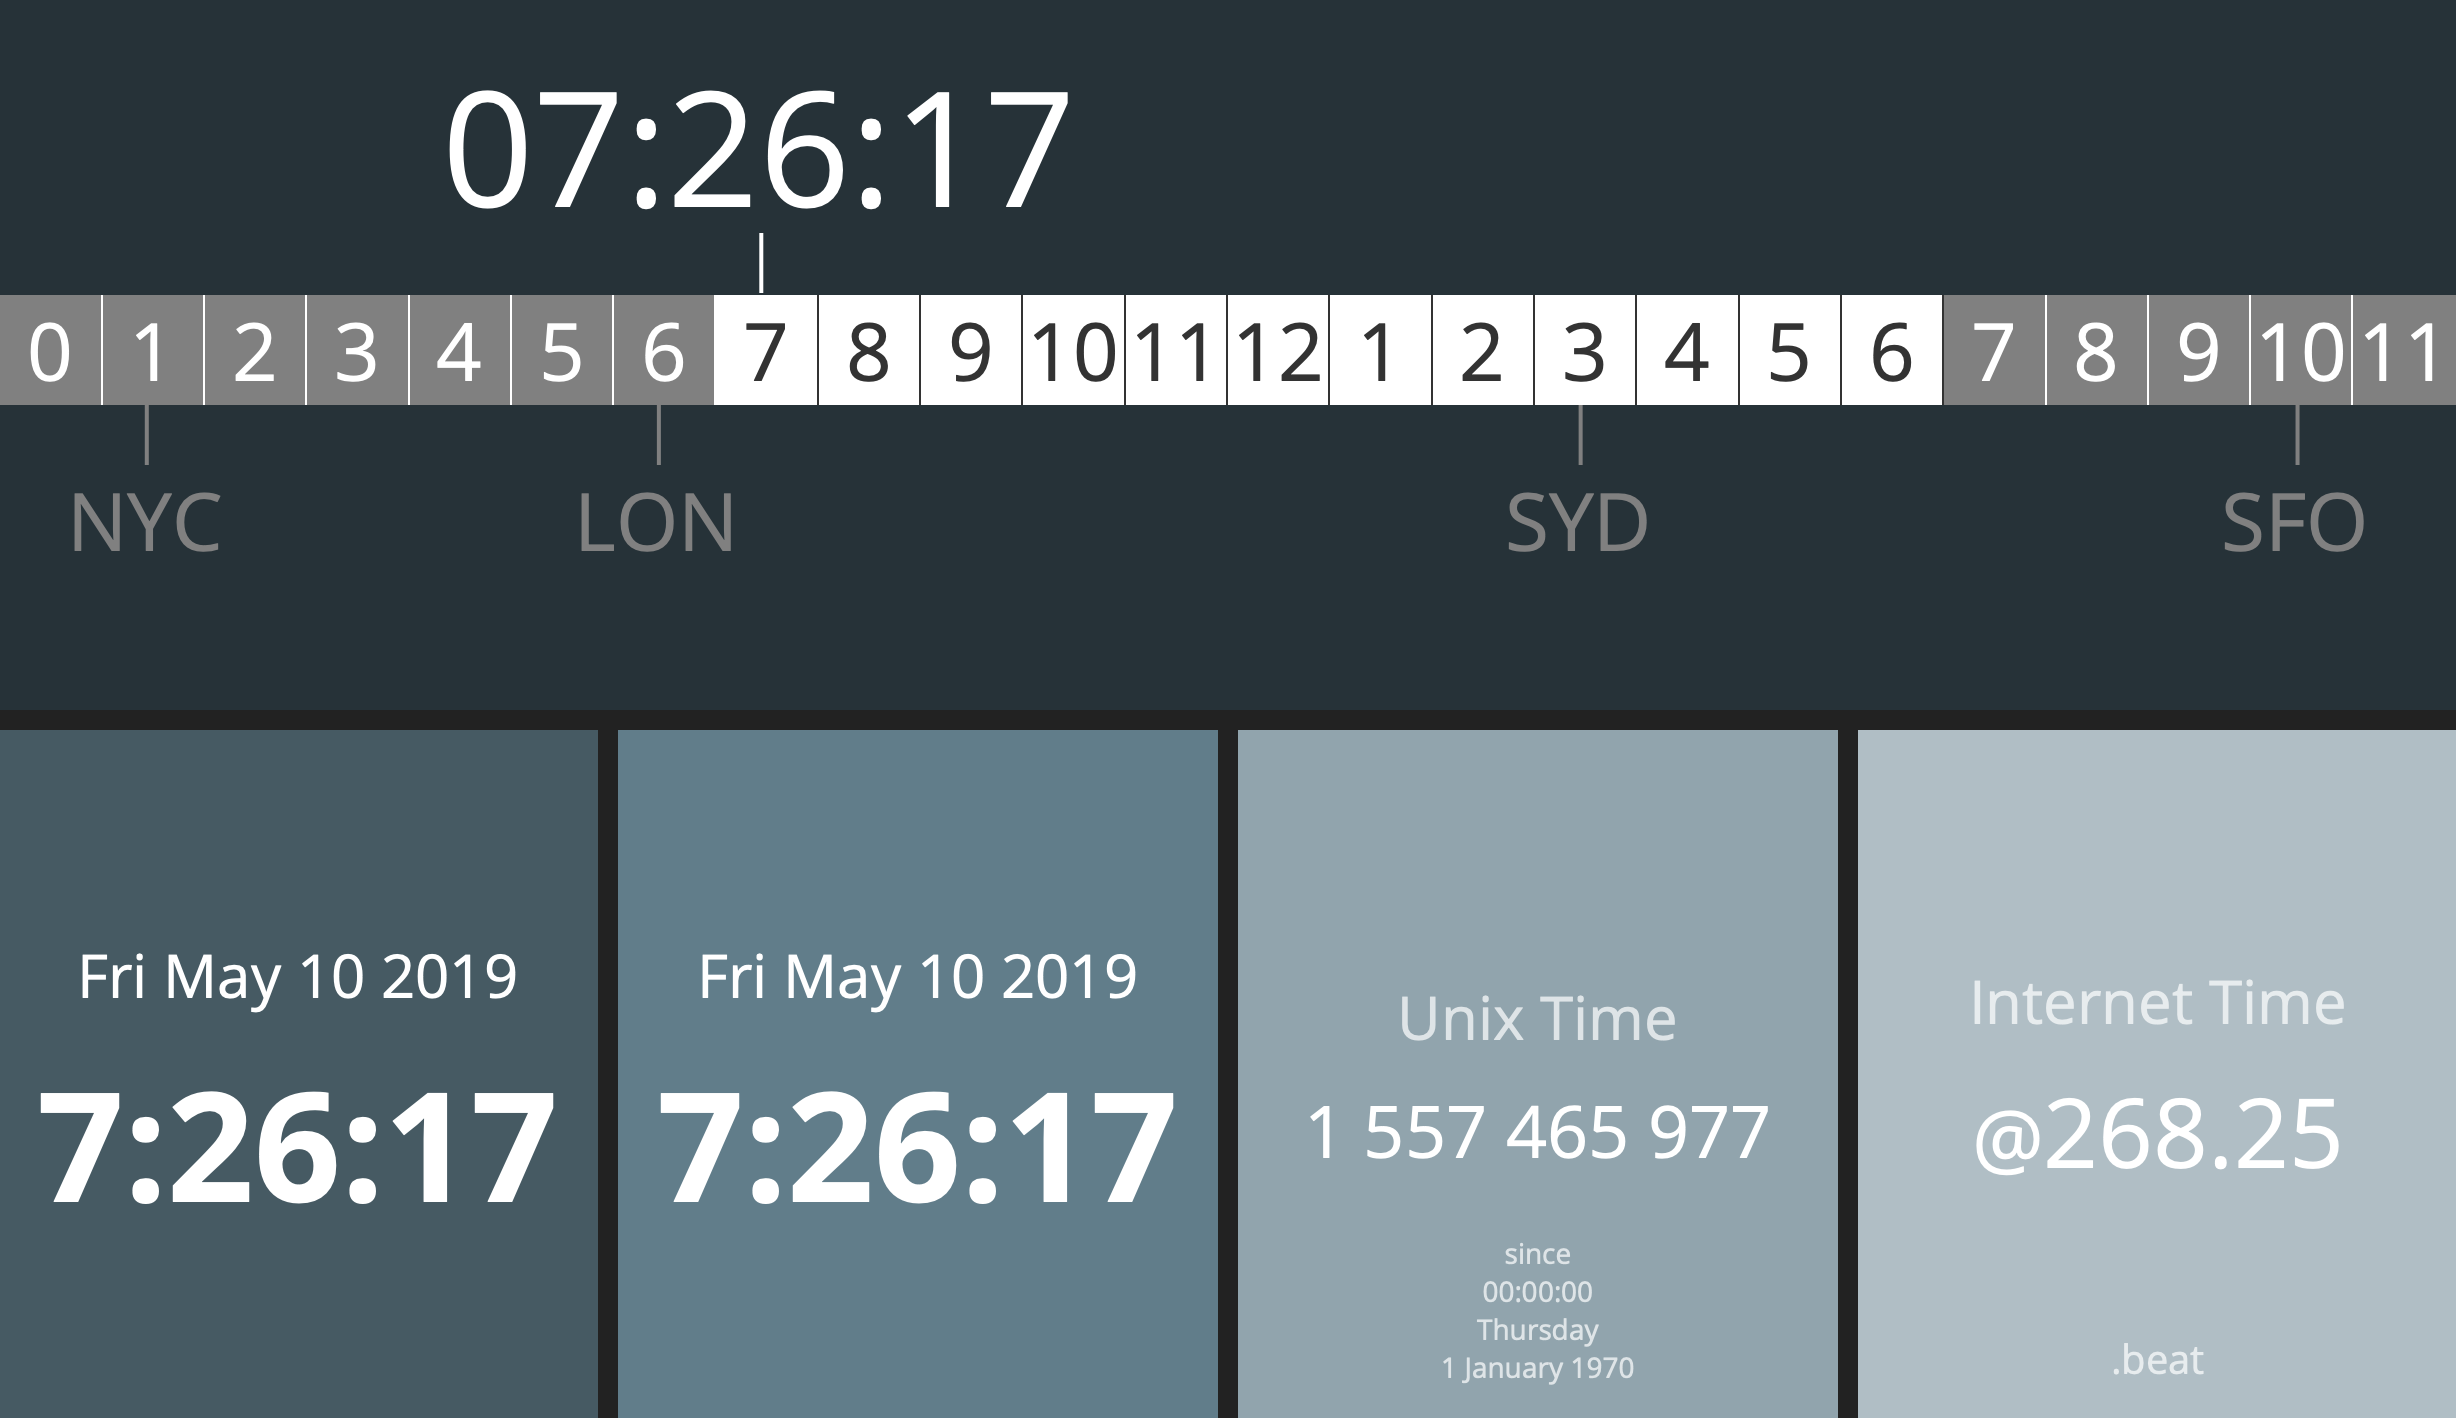
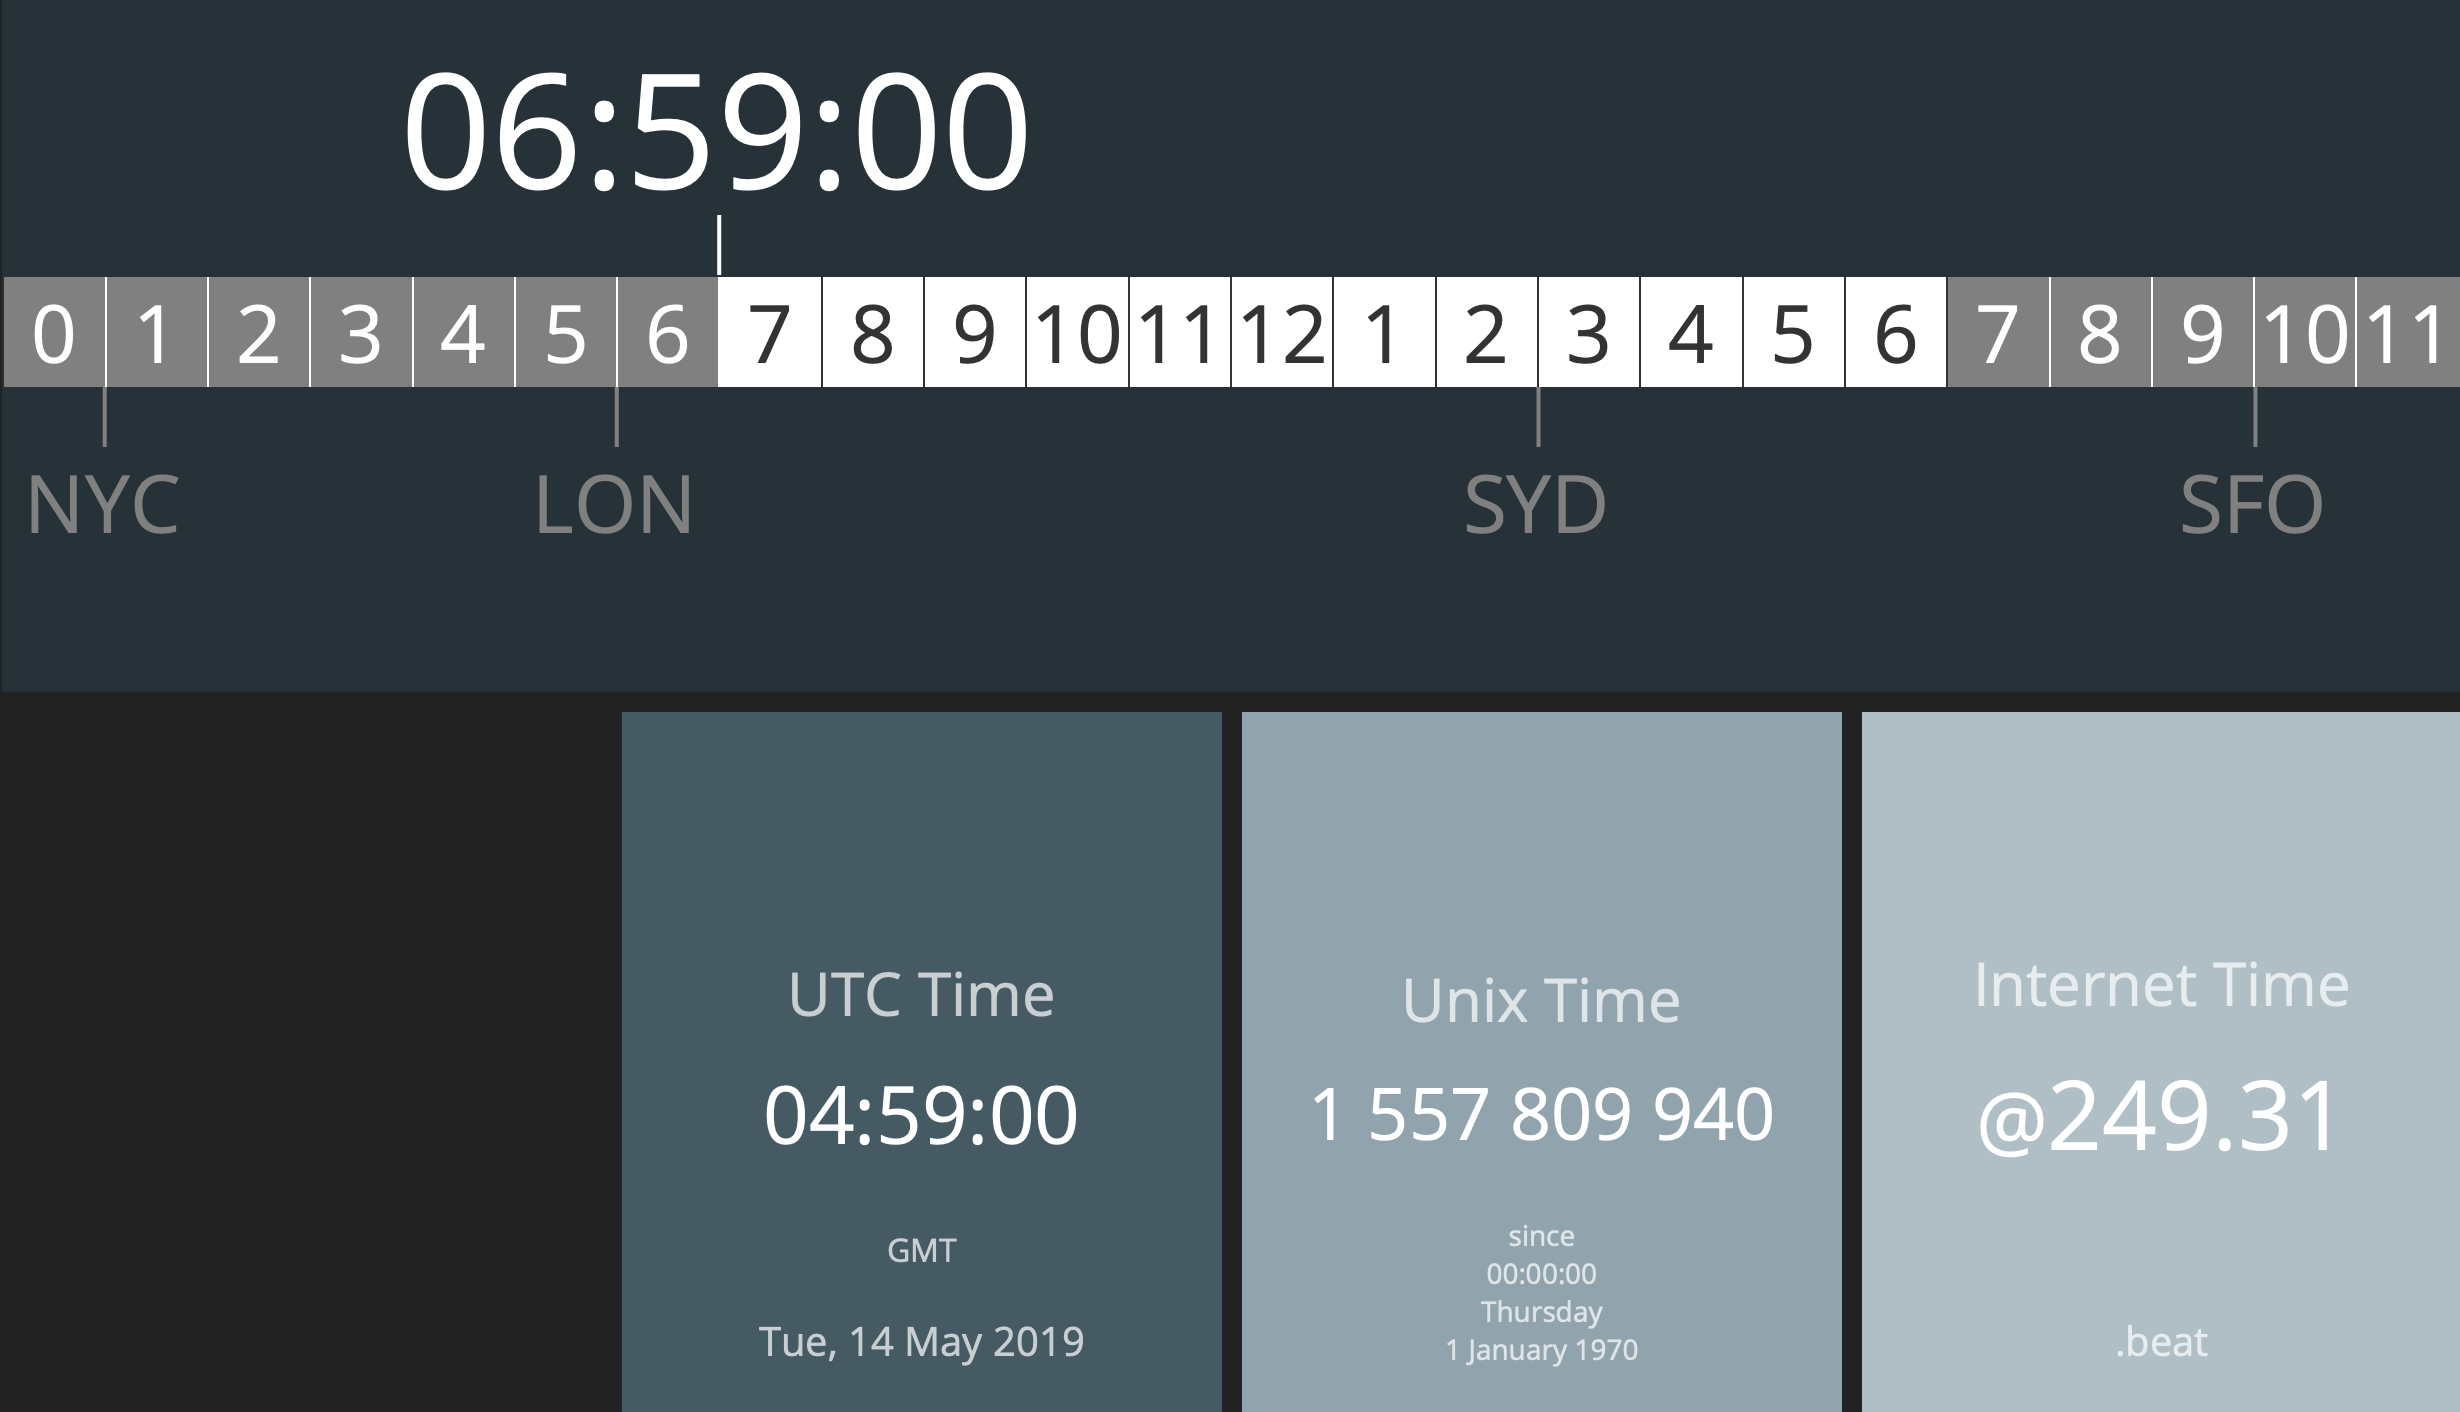
Update README to reflect changes on time dashboard

diff --git a/README.md b/README.md
@@ -2,11 +2,15 @@
 
 For Smashing check out http://smashing.github.io/smashing for more information.
 
-The dashboard pages are protected by HTTP basic auth (see `config.ru`), so first you need to set the auth credentials on line 21 in `config.ru`:
+The dashboard pages are protected by HTTP basic auth (see `config.ru`), so first you need to set the auth credentials in a separate `.env` file:
 
-```ruby
-@auth.provided? && @auth.basic? && @auth.credentials && @auth.credentials == ['', ''] # <=== change these!!
+Create a new `.env` file and add the following lines:
+
+```shell
+export BASIC_AUTH_USERNAME=<your username>
+export BASIC_AUTH_PASSWORD=<your password>
 ```
+*Note: The username or password must not contain special characters like '<' or '>'.*
 
 Once it's done in the root directory (in our case it's `smashing-dashboards`) for local testing start it with
 
@@ -31,11 +35,11 @@ Example:
 The World Clock dashboard contains the following widgets:
 
 * [world_clock](https://gist.github.com/weilu/7688343)
-* clock (default Dashing/Smashing widget)
+* utc_time
 * unix_time
 * beat_time
 
-The last two widgets are not written in Ruby. With a little bit of cheating these are written in JavaScript.
+The last three widgets are not written in Ruby. With a little bit of cheating these are written in JavaScript.
 
 ![world clock and other times dashboard sample](assets/images/example-time-dashboard.png)
 
